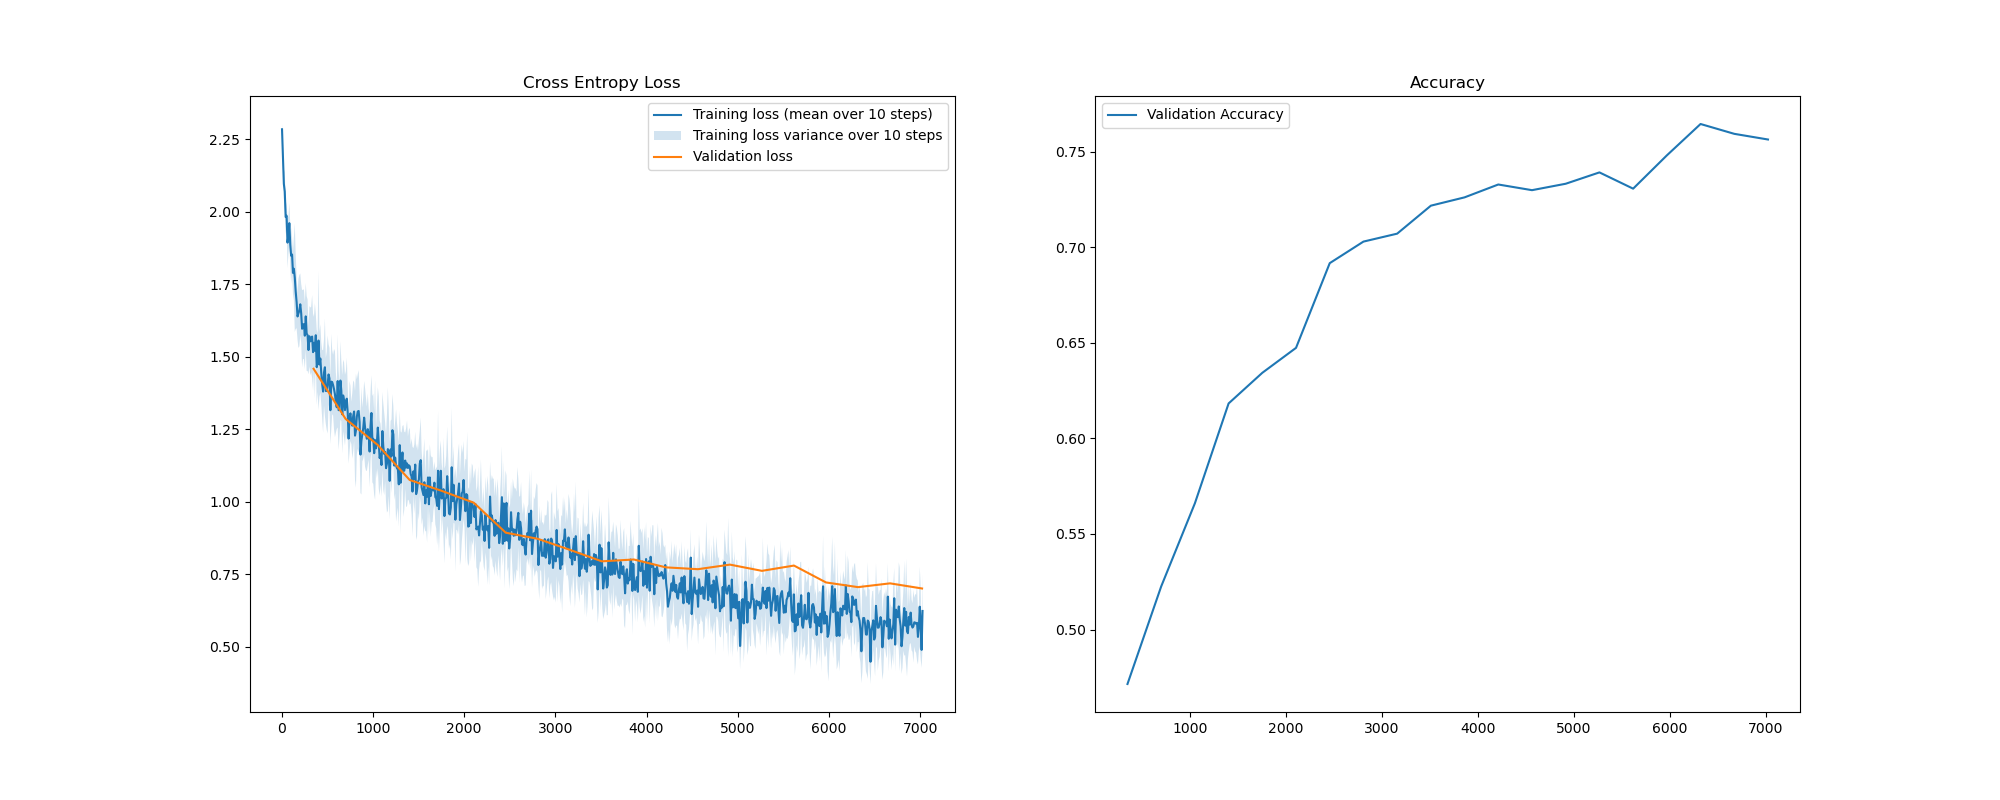
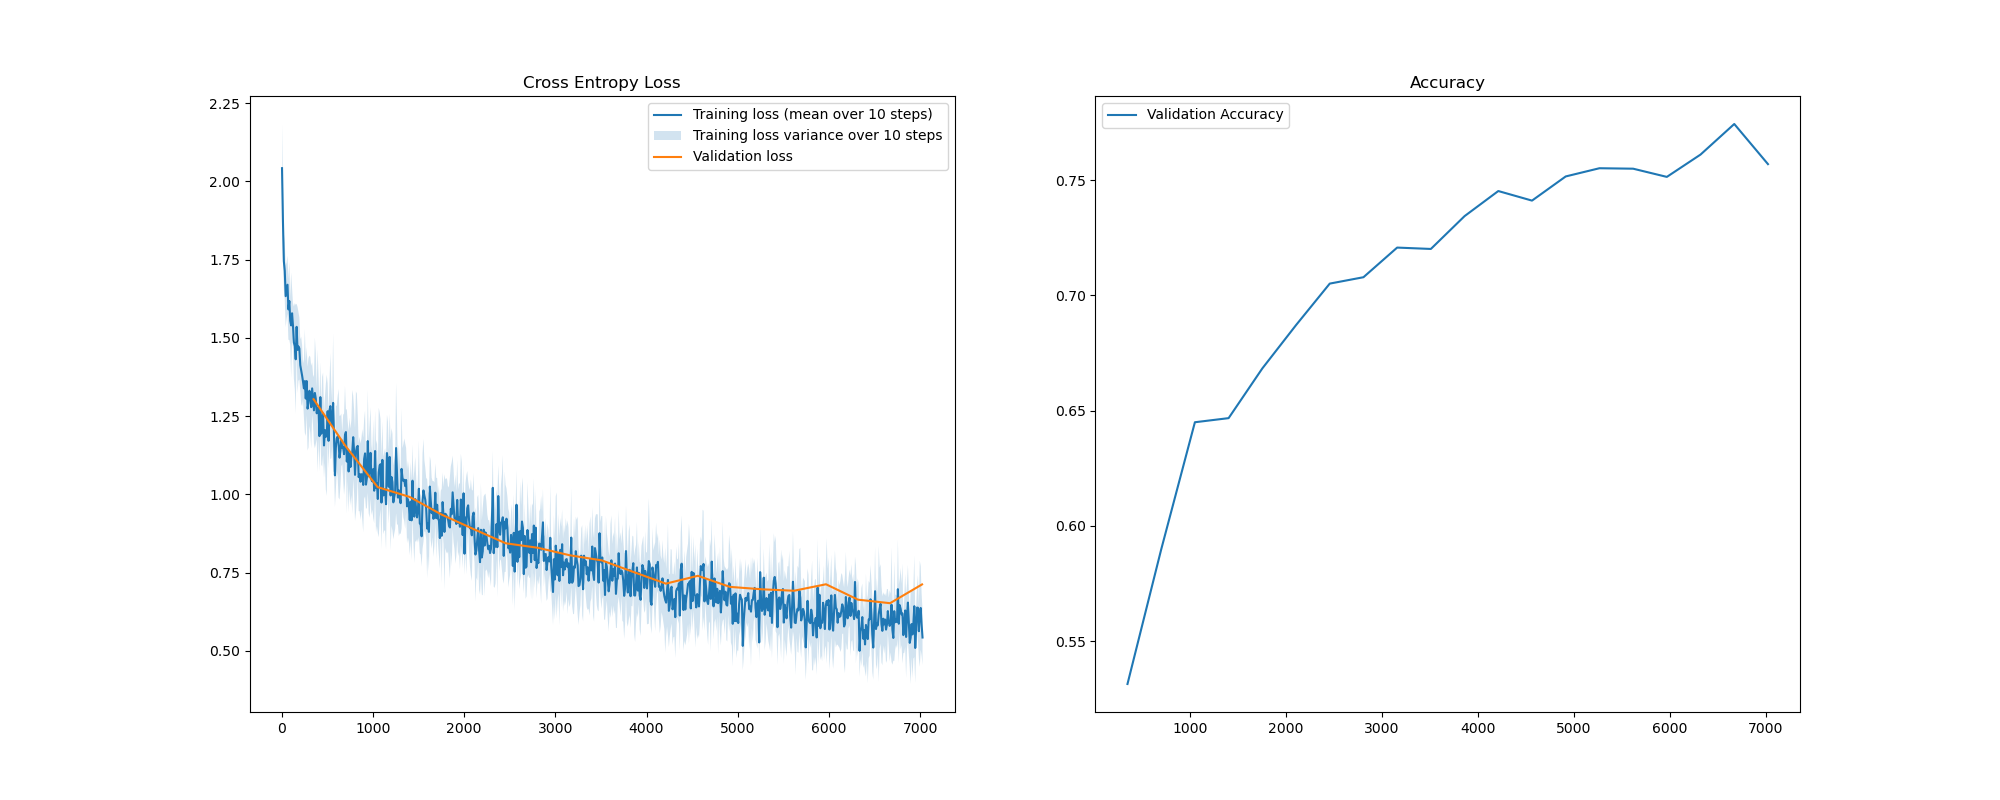
task2 model

diff --git a/assignment3/task3.py b/assignment3/task3.py
@@ -1,3 +1,4 @@
+
 import pathlib
 import matplotlib.pyplot as plt
 import utils
@@ -7,7 +8,12 @@ from dataloaders import load_cifar10
 from trainer import Trainer, compute_loss_and_accuracy
 from torchsummary import summary
 
-class ExampleModel(nn.Module):
+
+##Task 3a
+#Model from task2 copied as a starting point
+
+
+class Task3Model(nn.Module):
     def __init__(self, image_channels, num_classes):
         """
         Is called when model is initialized.
@@ -17,7 +23,7 @@ class ExampleModel(nn.Module):
         """
         super().__init__()
         # TODO: Implement this function (Task  2a)
-        num_filters = 32  # Set number of filters in first conv layer
+        num_filters = 64  # Set number of filters in first conv layer
         self.num_classes = num_classes
         # Define the convolutional layers
         """
@@ -26,45 +32,105 @@ class ExampleModel(nn.Module):
             After the MaxPool2d layer the output of feature_extractor would be [batch_size, num_filters, 16, 16]
             that means after both the first convv and Pool layer  we would have:
             self.num_output_features = 32 * 16 * 16
+
+            Formula for output size of conv layer:
+            Width :
+            W2 = [(W1 -FW + 2PW )/SW ] + 1
         """
+
         self.feature_extractor = nn.Sequential(
             #layer1
             nn.Conv2d(
                 in_channels=image_channels,
                 out_channels=num_filters,
-                kernel_size=5,
+                kernel_size=3,
                 stride=1,
-                padding=2,
+                padding=1,
             ),
-            nn.MaxPool2d(kernel_size=2, stride=2),
+            nn.BatchNorm2d(num_filters),
             nn.ELU(),
-
             #layer2
-            nn.Conv2d(in_channels=num_filters, #equal to the output from prev layer
-                out_channels=num_filters * 2,
-                kernel_size=5,
+            nn.Conv2d(
+                in_channels=num_filters,
+                out_channels=num_filters,
+                kernel_size=3,
                 stride=1,
-                padding=2,
+                padding=1,
             ),
-            nn.MaxPool2d(kernel_size=2, stride=2),
+            nn.BatchNorm2d(num_filters),
             nn.ELU(),
-            #After this layer the output of feature_extractor would be [batch_size, num_filters * 2, 8, 8]
+            nn.MaxPool2d(kernel_size=2, stride=2),
 
             #layer3
-            nn.Conv2d(in_channels=num_filters * 2,
-                out_channels=num_filters * 4,
-                kernel_size=5,
+            nn.Conv2d(
+                in_channels=num_filters,
+                out_channels=num_filters*2,
+                kernel_size=3,
                 stride=1,
-                padding=2,
+                padding=1,
             ),
+            nn.BatchNorm2d(num_filters*2),
+            nn.ELU(),
+            #layer4
+            nn.Conv2d(
+                in_channels=num_filters*2,
+                out_channels=num_filters*2,
+                kernel_size=3,
+                stride=1,
+                padding=1,
+            ),
+            nn.BatchNorm2d(num_filters*2),
             nn.ELU(),
             nn.MaxPool2d(kernel_size=2, stride=2),
-            nn.Dropout(0.1),
+            #layer5
+            nn.Conv2d(
+                in_channels=num_filters*2,
+                out_channels=num_filters*4,
+                kernel_size=3,
+                stride=1,
+                padding=1,
+            ),
+            nn.BatchNorm2d(num_filters*4),
+            nn.ELU(),
+            #layer6
+            nn.Conv2d(
+                in_channels=num_filters*4,
+                out_channels=num_filters*4,
+                kernel_size=3,
+                stride=1,
+                padding=1,
+            ),
+            nn.BatchNorm2d(num_filters*4),
+            nn.ELU(),
+            nn.MaxPool2d(kernel_size=2, stride=2),
             #After this layer the output of feature_extractor would be [batch_size, num_filters * 4, 4, 4]
 
-        )
+            #layer7
+            nn.Conv2d(
+                in_channels=num_filters*4,
+                out_channels=num_filters*8,
+                kernel_size=3,
+                stride=1,
+                padding=1,
+            ),
+            nn.BatchNorm2d(num_filters*8),
+            nn.ELU(),
+            nn.Dropout(0.4), #p = 0.4 best score for now, with 64 filters
 
-        self.num_output_features = (num_filters * 4) * 4 * 4
+            #layer8
+            nn.Conv2d(
+                in_channels=num_filters*8,
+                out_channels=num_filters*8,
+                kernel_size=3,
+                stride=1,
+                padding=1,
+            ),
+            nn.BatchNorm2d(num_filters*8),
+            nn.ELU(),
+            nn.MaxPool2d(kernel_size=2, stride=2),
+        )
+        #The output of feature_extractor will be [batch_size, num_filters * 4, 4, 4]
+        self.num_output_features = num_filters * 8 * 2 * 2  
         # Initialize our last fully connected layer
         # Inputs all extracted features from the convolutional layers
         # Outputs num_classes predictions, 1 for each class. 
@@ -73,9 +139,12 @@ class ExampleModel(nn.Module):
 
         self.classifier = nn.Sequential(
             nn.Flatten(),
-            nn.Linear(self.num_output_features, num_filters * 4),
+            #layer9
+            nn.Linear(self.num_output_features, num_filters * 2),
             nn.ELU(),
-            nn.Linear(num_filters*4, num_classes),
+            #layer10
+            nn.Linear(num_filters * 2, num_classes),
+
         )
 
     def forward(self, x):
@@ -131,19 +200,19 @@ def main():
     learning_rate = 5e-2
     early_stop_count = 4
     dataloaders = load_cifar10(batch_size)
-    model = ExampleModel(image_channels=3, num_classes=10)
-    summary(model, (3, 32, 32))
+    model = Task3Model(image_channels=3, num_classes=10)
     trainer = Trainer(
         batch_size, learning_rate, early_stop_count, epochs, model, dataloaders
     )
     trainer.train()
-    create_plots(trainer, "task3")
+    create_plots(trainer, "task3_model")
+    summary(model, (3, 32, 32))
 
     #try task 2b
     train_loss, train_accuracy = compute_loss_and_accuracy(dataloaders[0], model, torch.nn.CrossEntropyLoss())
     val_loss, val_accuracy = compute_loss_and_accuracy(dataloaders[1], model, torch.nn.CrossEntropyLoss())
     test_loss, test_accuracy = compute_loss_and_accuracy(dataloaders[2], model, torch.nn.CrossEntropyLoss())
-    #Print the results
+    # Print the results
     print(f"Training Loss: {train_loss:.4f}, Training Accuracy: {train_accuracy:.4f}")
     print(f"Validation Loss: {val_loss:.4f}, Validation Accuracy: {val_accuracy:.4f}")
     print(f"Test Loss: {test_loss:.4f}, Test Accuracy: {test_accuracy:.4f}")
